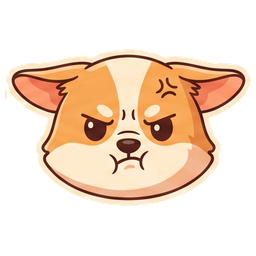
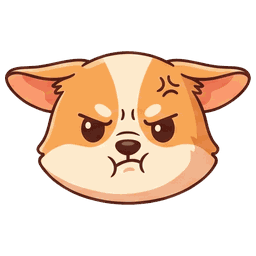
build(2.0.15): ten emoji packs, eight drawn for Jotla; the child's face loses its disc

Changed region(s): [[0.0, 0.1875, 1.0, 0.8125], [0.5312, 0.3125, 0.5625, 0.3438]]

diff --git a/tests/boot-assert.js b/tests/boot-assert.js
@@ -720,19 +720,33 @@ function ok(name, cond) {
   await page4.waitForTimeout(600);
   const moodPage = await page4.locator('#root').innerText();
   ok('the Emojis page drops the grey subtitle', !moodPage.includes('The faces the whole record wears'));
-  ok('the Emojis page lists exactly Bold, Sticker and Corgi (the v2 roster is gone)',
-    moodPage.includes('Bold') && moodPage.includes('Sticker') && moodPage.includes('Corgi')
+  ok('the Emojis page lists all ten packs (the v2 roster is still gone)',
+    ['Bold', 'Sticker', 'Corgi', 'Cat', 'Dino', 'Monster', 'Ghost', 'Robot', 'Weather', 'Boba'].every(k => moodPage.includes(k))
     && !moodPage.includes('Classic') && !moodPage.includes('Bubble') && !moodPage.includes('Outline') && !moodPage.includes('Soft'));
-  ok('all three packs preview their five moods (15 faces on the page)', (await page4.locator('[data-face-style]').count()) === 15);
+  ok('all ten packs preview their five moods (50 faces on the page)', (await page4.locator('[data-face-style]').count()) === 50);
   ok('Bold is the default look, ticked on a fresh boot', await page4.evaluate(() => {
     const btn = [...document.querySelectorAll('[role="radio"]')].find(b => b.getAttribute('aria-label') === 'Bold');
     return !!btn && btn.getAttribute('aria-checked') === 'true';
   }));
-  ok('both paid packs wear the crown on free', (await page4.locator('[data-crown-gate]').count()) === 2);
+  ok('all nine paid packs wear the crown on free', (await page4.locator('[data-crown-gate]').count()) === 9);
   // every face on the page is a file that actually decoded: a missing PNG
-  // renders as an empty img and still counts in the locator above
-  ok('every previewed face image loaded (no broken art)', await page4.evaluate(() =>
-    [...document.querySelectorAll('[data-face-style] img')].every(i => i.complete && i.naturalWidth > 0)));
+  // renders as an empty img and still counts in the locator above. The previews
+  // are lazy, so the page is scrolled to the end first, which also proves the
+  // lazy images do arrive: 50 files, 10 packs, no broken art anywhere.
+  await page4.evaluate(async () => {
+    const box = document.querySelector('.j-scroll');
+    for (let y = 0; y < box.scrollHeight; y += 400) {
+      box.scrollTop = y;
+      await new Promise(r => setTimeout(r, 60));
+    }
+  });
+  await page4.waitForTimeout(900);
+  const faceImgs = await page4.evaluate(() => {
+    const imgs = [...document.querySelectorAll('[data-face-style] img')];
+    return { total: imgs.length, ok: imgs.filter(i => i.complete && i.naturalWidth > 0).length };
+  });
+  ok(`every previewed face image loaded (${faceImgs.ok}/${faceImgs.total})`,
+    faceImgs.total === 50 && faceImgs.ok === 50);
   await page4.locator('[role="radio"][aria-label="Sticker"]').first().click();
   await page4.waitForTimeout(600);
   ok('a crowned pack opens the Jotla Plus page on free', (await page4.locator('#root').innerText()).includes('Get Jotla Plus'));
@@ -948,6 +962,17 @@ function ok(name, cond) {
   await page5.getByText('Happy', { exact: true }).first().click();
   await page5.waitForTimeout(500);
   ok('a picked face grows the More button on Plus', await page5.getByText('More', { exact: true }).first().isVisible());
+  // 11 Aug: the amber disc behind the child's face is gone. It was also padding
+  // the art down to 82%, so the disc is what made the sticker look small.
+  ok('no child face sits on a coloured disc', await page5.evaluate(() =>
+    [...document.querySelectorAll('[data-face-style]')].every(s => {
+      const bg = getComputedStyle(s).backgroundColor;
+      return bg === 'rgba(0, 0, 0, 0)' || bg === 'transparent';
+    })));
+  ok('the confirmed face renders full-bleed at 162px', await page5.evaluate(() => {
+    const img = document.querySelector('[data-face-style] img');
+    return !!img && Math.round(img.getBoundingClientRect().width) === 162;
+  }));
   await page5.getByText('More', { exact: true }).first().click();
   await page5.waitForTimeout(500);
   const qCards = await page5.locator('#root').innerText();

diff --git a/design-handoff/source/jotla/jotla-illustrations.jsx b/design-handoff/source/jotla/jotla-illustrations.jsx
@@ -22,15 +22,17 @@
 // theme-correct fallback without rendering it first. See NATIVE-SYNC.md B.
 
 // mood/emotion keys: happy, ok, sad, worried, angry  (good->happy, hard->sad aliases)
-// MOOD STYLES v4 (founder, 11 Aug): THREE packs. Bold (Twemoji, CC BY 4.0) is
-// the DEFAULT and free; Sticker (Microsoft Fluent 3D, MIT) and Corgi are Plus.
-// The 9 Aug v2 roster (Soft/Flat/Bubble/Outline and the cat packs) was cut the
-// same day: founder verdict, "all the same kinda"; the drawn classic smiley
-// retired with it. Corgi is the first ORIGINAL pack, drawn for Jotla rather
-// than licensed, because nothing open carries that variety: one 21:9 sheet of
-// all five moods off one character anchor, cut into five squares and sized by
-// area so a wide head and a tall-eared head read the same. Recipe + prompt:
-// Vision `App/Jotla-Emoji-Pack-Prompts.md`. Notices: moods/LICENSES.md + About.
+// EMOJI PACKS v5 (founder, 11 Aug): TEN packs. Bold (Twemoji, CC BY 4.0) is the
+// DEFAULT and free; every other pack is Plus. Eight of them are ORIGINAL, drawn
+// for Jotla rather than licensed, because nothing open carries that variety
+// (the 9 Aug roster was cut on the founder's verdict, "all the same kinda").
+// Each original pack is ONE 21:9 sheet holding all five moods, so one drawing
+// pass gives one character; the founder cuts the sheet in Photoshop and Vision
+// splits it, sizes each face by AREA (a wide short head and a tall eared head
+// with the same bounding box read as different sizes) and squares it to 256px,
+// palette-optimised to about a sixth of the raw weight. Recipe and the prompt
+// for every pack: Vision `App/Jotla-Emoji-Pack-Prompts.md`. Notices live in
+// moods/LICENSES.md and on the About page.
 // The active look rides window.JOTLA_FACE_STYLE (set by the shell from prefs);
 // the styleName prop overrides it so the Mood style page can preview packs.
 // Any unknown or stale pack name falls back to Bold so a face can never blank.
@@ -38,8 +40,15 @@ const FACE_PACKS = {
   bold: { dir: 'moods/bold', ext: 'png', label: 'Bold' },
   sticker: { dir: 'moods/sticker', ext: 'png', label: 'Sticker' },
   corgi: { dir: 'moods/corgi', ext: 'png', label: 'Corgi' },
+  cat: { dir: 'moods/cat', ext: 'png', label: 'Cat' },
+  dino: { dir: 'moods/dino', ext: 'png', label: 'Dino' },
+  monster: { dir: 'moods/monster', ext: 'png', label: 'Monster' },
+  ghost: { dir: 'moods/ghost', ext: 'png', label: 'Ghost' },
+  robot: { dir: 'moods/robot', ext: 'png', label: 'Robot' },
+  weather: { dir: 'moods/weather', ext: 'png', label: 'Weather' },
+  boba: { dir: 'moods/boba', ext: 'png', label: 'Boba' },
 };
-const FACE_PACK_ORDER = ['bold', 'sticker', 'corgi'];
+const FACE_PACK_ORDER = ['bold', 'sticker', 'corgi', 'cat', 'dino', 'monster', 'ghost', 'robot', 'weather', 'boba'];
 const FACE_PACK_DEFAULT = 'bold';
 const FACE_PACK_LABEL = (k) => (FACE_PACKS[k] ? FACE_PACKS[k].label : FACE_PACKS[FACE_PACK_DEFAULT].label);
 function Face({ mood = 'happy', size = 64, bg = 'transparent', styleName }) {
@@ -53,7 +62,7 @@ function Face({ mood = 'happy', size = 64, bg = 'transparent', styleName }) {
   return (
     <span data-face-style={look} style={{ display: 'flex', alignItems: 'center', justifyContent: 'center',
       width: size, height: size, borderRadius: '50%', background: bg !== 'transparent' ? bg : 'none', flexShrink: 0 }}>
-      <img src={p.dir + '/' + m + '.' + p.ext} alt="" draggable={false}
+      <img src={p.dir + '/' + m + '.' + p.ext} alt="" draggable={false} loading="lazy" decoding="async" 
         style={{ width: size - pad * 2, height: size - pad * 2, display: 'block' }} />
     </span>
   );

diff --git a/design-handoff/source/jotla/min/jotla-parent-b.js b/design-handoff/source/jotla/min/jotla-parent-b.js
@@ -2864,7 +2864,7 @@ function InfoAboutScreen({
     title: "Jotla Plus"
   }, /*#__PURE__*/React.createElement(InfoP, null, "The record itself is free, forever: logging, your timeline, search and export never cost anything, never expire, and stay yours."), /*#__PURE__*/React.createElement(InfoP, null, "Jotla Plus adds the tools to help you spot patterns and make your case: photos and videos kept with your notes, patterns and the Month view, deep filtering, Dysregulation Mode, and the PDF evidence pack. Family Sync, when it arrives, is part of Plus too. Plus is ", TERM_PRICE, " ", TERM_PERIOD, " or ", PLUS_PRICE, " for a year, through Google Play, and it stays on until the day a term runs out."), /*#__PURE__*/React.createElement(InfoP, null, /*#__PURE__*/React.createElement("span", {
     className: "j-strong"
-  }, "If your year ends, you keep everything."), " Your record is never held to ransom. If Plus ends, for any reason at all, whether you cancel, let it lapse, or a card quietly expires, you lose nothing you have written. Every entry stays. Your full timeline stays. Plain keyword search stays. Raw export stays. You can still make the PDF of everything you have already logged. Appeal-deadline safety reminders keep coming, with or without a subscription. A subscription only ever switches off the paid tools. It never touches your history."), /*#__PURE__*/React.createElement(InfoP, null, "Jotla AI is coming in 2027: ", AI_PRICE, " ", PLUS_PERIOD, ", with Jotla Plus included, so it is ", AI_PRICE, " in total and not one price on top of another."), /*#__PURE__*/React.createElement(InfoP, null, "Two of the face packs use open emoji artwork, with thanks to their makers: Bold is Twemoji (CC BY 4.0) and Sticker is Microsoft Fluent Emoji (MIT licence). Corgi was drawn for Jotla. Full notices ship inside the app's moods folder."), /*#__PURE__*/React.createElement("button", {
+  }, "If your year ends, you keep everything."), " Your record is never held to ransom. If Plus ends, for any reason at all, whether you cancel, let it lapse, or a card quietly expires, you lose nothing you have written. Every entry stays. Your full timeline stays. Plain keyword search stays. Raw export stays. You can still make the PDF of everything you have already logged. Appeal-deadline safety reminders keep coming, with or without a subscription. A subscription only ever switches off the paid tools. It never touches your history."), /*#__PURE__*/React.createElement(InfoP, null, "Jotla AI is coming in 2027: ", AI_PRICE, " ", PLUS_PERIOD, ", with Jotla Plus included, so it is ", AI_PRICE, " in total and not one price on top of another."), /*#__PURE__*/React.createElement(InfoP, null, "Two of the emoji packs use open artwork, with thanks to their makers: Bold is Twemoji (CC BY 4.0) and Sticker is Microsoft Fluent Emoji (MIT licence). The other eight were drawn for Jotla. Full notices ship inside the app's moods folder."), /*#__PURE__*/React.createElement("button", {
     className: "j-btn j-btn-soft",
     onClick: () => nav.go('unlock')
   }, /*#__PURE__*/React.createElement(Icon, {
@@ -3677,7 +3677,7 @@ function MoodStyleScreen({
       size: 40,
       styleName: k
     }))));
-  }), /*#__PURE__*/React.createElement(FootNote, null, "Bold is part of Free. The other looks are part of Plus, and the whole record changes together: Today, the Month, and the child's own screens."))));
+  }), /*#__PURE__*/React.createElement(FootNote, null, "Bold is part of Free. The other nine are part of Plus, and the whole record changes together: Today, the Month, and the child's own screens."))));
 }
 
 // ---------------- CHILDREN ----------------

diff --git a/design-handoff/source/jotla/min/jotla-illustrations.js b/design-handoff/source/jotla/min/jotla-illustrations.js
@@ -22,15 +22,17 @@
 // theme-correct fallback without rendering it first. See NATIVE-SYNC.md B.
 
 // mood/emotion keys: happy, ok, sad, worried, angry  (good->happy, hard->sad aliases)
-// MOOD STYLES v4 (founder, 11 Aug): THREE packs. Bold (Twemoji, CC BY 4.0) is
-// the DEFAULT and free; Sticker (Microsoft Fluent 3D, MIT) and Corgi are Plus.
-// The 9 Aug v2 roster (Soft/Flat/Bubble/Outline and the cat packs) was cut the
-// same day: founder verdict, "all the same kinda"; the drawn classic smiley
-// retired with it. Corgi is the first ORIGINAL pack, drawn for Jotla rather
-// than licensed, because nothing open carries that variety: one 21:9 sheet of
-// all five moods off one character anchor, cut into five squares and sized by
-// area so a wide head and a tall-eared head read the same. Recipe + prompt:
-// Vision `App/Jotla-Emoji-Pack-Prompts.md`. Notices: moods/LICENSES.md + About.
+// EMOJI PACKS v5 (founder, 11 Aug): TEN packs. Bold (Twemoji, CC BY 4.0) is the
+// DEFAULT and free; every other pack is Plus. Eight of them are ORIGINAL, drawn
+// for Jotla rather than licensed, because nothing open carries that variety
+// (the 9 Aug roster was cut on the founder's verdict, "all the same kinda").
+// Each original pack is ONE 21:9 sheet holding all five moods, so one drawing
+// pass gives one character; the founder cuts the sheet in Photoshop and Vision
+// splits it, sizes each face by AREA (a wide short head and a tall eared head
+// with the same bounding box read as different sizes) and squares it to 256px,
+// palette-optimised to about a sixth of the raw weight. Recipe and the prompt
+// for every pack: Vision `App/Jotla-Emoji-Pack-Prompts.md`. Notices live in
+// moods/LICENSES.md and on the About page.
 // The active look rides window.JOTLA_FACE_STYLE (set by the shell from prefs);
 // the styleName prop overrides it so the Mood style page can preview packs.
 // Any unknown or stale pack name falls back to Bold so a face can never blank.
@@ -49,9 +51,44 @@ const FACE_PACKS = {
     dir: 'moods/corgi',
     ext: 'png',
     label: 'Corgi'
+  },
+  cat: {
+    dir: 'moods/cat',
+    ext: 'png',
+    label: 'Cat'
+  },
+  dino: {
+    dir: 'moods/dino',
+    ext: 'png',
+    label: 'Dino'
+  },
+  monster: {
+    dir: 'moods/monster',
+    ext: 'png',
+    label: 'Monster'
+  },
+  ghost: {
+    dir: 'moods/ghost',
+    ext: 'png',
+    label: 'Ghost'
+  },
+  robot: {
+    dir: 'moods/robot',
+    ext: 'png',
+    label: 'Robot'
+  },
+  weather: {
+    dir: 'moods/weather',
+    ext: 'png',
+    label: 'Weather'
+  },
+  boba: {
+    dir: 'moods/boba',
+    ext: 'png',
+    label: 'Boba'
   }
 };
-const FACE_PACK_ORDER = ['bold', 'sticker', 'corgi'];
+const FACE_PACK_ORDER = ['bold', 'sticker', 'corgi', 'cat', 'dino', 'monster', 'ghost', 'robot', 'weather', 'boba'];
 const FACE_PACK_DEFAULT = 'bold';
 const FACE_PACK_LABEL = k => FACE_PACKS[k] ? FACE_PACKS[k].label : FACE_PACKS[FACE_PACK_DEFAULT].label;
 function Face({
@@ -83,6 +120,8 @@ function Face({
     src: p.dir + '/' + m + '.' + p.ext,
     alt: "",
     draggable: false,
+    loading: "lazy",
+    decoding: "async",
     style: {
       width: size - pad * 2,
       height: size - pad * 2,

diff --git a/design-handoff/source/jotla/jotla-child.jsx b/design-handoff/source/jotla/jotla-child.jsx
@@ -301,8 +301,13 @@ function ChildScreen({ nav, profile }) {
 
           {step === 'intro' && (
             <div className="j-fade" style={{ textAlign: 'center' }}>
+              {/* no amber disc behind the face (founder, 11 Aug: "dont let it
+                  have those round borders around them. it makes the sticker
+                  look smaller. just leave it natural"). The disc also padded
+                  the art to 82%, so dropping it is what makes the face bigger,
+                  not the size bump. */}
               <div style={{ display: 'flex', justifyContent: 'center', marginBottom: 22 }}>
-                <Face mood="happy" size={140} bg="#FFE6B8" />
+                <Face mood="happy" size={150} />
               </div>
               <p style={{ fontFamily: "'Cal Sans', system-ui", fontWeight: 500, fontSize: 'calc(36px * var(--tscale, 1))', color: HEAD_INK, margin: '0 0 8px' }}>Hi {childName}</p>
               <p style={{ fontSize: 'calc(20px * var(--tscale, 1))', color: SUB_INK, margin: '0 0 34px' }}>How was your day?</p>
@@ -349,7 +354,7 @@ function ChildScreen({ nav, profile }) {
               <div style={{ position: 'relative', display: 'flex', justifyContent: 'center', marginBottom: 24 }}>
                 {sel === 'happy' && <ConfettiBurst />}
                 <span className={'j-anim-' + sel} style={{ display: 'inline-flex' }}>
-                  <Face mood={sel} size={150} bg="#FFE6B8" />
+                  <Face mood={sel} size={162} />
                 </span>
               </div>
               <p style={{ fontFamily: "'Cal Sans', system-ui", fontWeight: 500, fontSize: 'calc(32px * var(--tscale, 1))', color: HEAD_INK, margin: '0 0 8px', lineHeight: 1.1 }}>
@@ -460,7 +465,7 @@ function ChildScreen({ nav, profile }) {
                 {/* gentle colour wash, no confetti, no sound */}
                 <span style={{ position: 'absolute', inset: '-30px', borderRadius: '50%',
                   background: 'radial-gradient(circle, rgba(39,174,96,0.16), rgba(39,174,96,0) 70%)' }} />
-                <span style={{ position: 'relative' }}><Face mood="happy" size={150} bg="#FFE6B8" /></span>
+                <span style={{ position: 'relative' }}><Face mood="happy" size={162} /></span>
                 {/* soft tick */}
                 <span style={{ position: 'absolute', right: 4, bottom: 4, width: 48, height: 48, borderRadius: '50%',
                   background: '#27AE60', display: 'flex', alignItems: 'center', justifyContent: 'center',

diff --git a/design-handoff/source/jotla/jotla-parent-b.jsx b/design-handoff/source/jotla/jotla-parent-b.jsx
@@ -1463,7 +1463,7 @@ function InfoAboutScreen({ nav }) {
         <InfoP>Jotla Plus adds the tools to help you spot patterns and make your case: photos and videos kept with your notes, patterns and the Month view, deep filtering, Dysregulation Mode, and the PDF evidence pack. Family Sync, when it arrives, is part of Plus too. Plus is {TERM_PRICE} {TERM_PERIOD} or {PLUS_PRICE} for a year, through Google Play, and it stays on until the day a term runs out.</InfoP>
         <InfoP><span className="j-strong">If your year ends, you keep everything.</span> Your record is never held to ransom. If Plus ends, for any reason at all, whether you cancel, let it lapse, or a card quietly expires, you lose nothing you have written. Every entry stays. Your full timeline stays. Plain keyword search stays. Raw export stays. You can still make the PDF of everything you have already logged. Appeal-deadline safety reminders keep coming, with or without a subscription. A subscription only ever switches off the paid tools. It never touches your history.</InfoP>
         <InfoP>Jotla AI is coming in 2027: {AI_PRICE} {PLUS_PERIOD}, with Jotla Plus included, so it is {AI_PRICE} in total and not one price on top of another.</InfoP>
-        <InfoP>Two of the face packs use open emoji artwork, with thanks to their makers: Bold is Twemoji (CC BY 4.0) and Sticker is Microsoft Fluent Emoji (MIT licence). Corgi was drawn for Jotla. Full notices ship inside the app's moods folder.</InfoP>
+        <InfoP>Two of the emoji packs use open artwork, with thanks to their makers: Bold is Twemoji (CC BY 4.0) and Sticker is Microsoft Fluent Emoji (MIT licence). The other eight were drawn for Jotla. Full notices ship inside the app's moods folder.</InfoP>
         <button className="j-btn j-btn-soft" onClick={() => nav.go('unlock')}>
           <Icon name="sparkle" size={18} color="var(--blue)" /> See what Plus adds
         </button>
@@ -1811,7 +1811,7 @@ function MoodStyleScreen({ nav }) {
               </button>
             );
           })}
-          <FootNote>Bold is part of Free. The other looks are part of Plus, and the whole record changes together: Today, the Month, and the child's own screens.</FootNote>
+          <FootNote>Bold is part of Free. The other nine are part of Plus, and the whole record changes together: Today, the Month, and the child's own screens.</FootNote>
         </div>
       </div>
     </div>

diff --git a/design-handoff/source/jotla/min/jotla-child.js b/design-handoff/source/jotla/min/jotla-child.js
@@ -563,8 +563,7 @@ function ChildScreen({
     }
   }, /*#__PURE__*/React.createElement(Face, {
     mood: "happy",
-    size: 140,
-    bg: "#FFE6B8"
+    size: 150
   })), /*#__PURE__*/React.createElement("p", {
     style: {
       fontFamily: "'Cal Sans', system-ui",
@@ -693,8 +692,7 @@ function ChildScreen({
     }
   }, /*#__PURE__*/React.createElement(Face, {
     mood: sel,
-    size: 150,
-    bg: "#FFE6B8"
+    size: 162
   }))), /*#__PURE__*/React.createElement("p", {
     style: {
       fontFamily: "'Cal Sans', system-ui",
@@ -942,8 +940,7 @@ function ChildScreen({
     }
   }, /*#__PURE__*/React.createElement(Face, {
     mood: "happy",
-    size: 150,
-    bg: "#FFE6B8"
+    size: 162
   })), /*#__PURE__*/React.createElement("span", {
     style: {
       position: 'absolute',

diff --git a/design-handoff/source/jotla/sw.js b/design-handoff/source/jotla/sw.js
@@ -10,9 +10,10 @@
    VERSION, and that is the ONLY thing that can evict a cache-first entry. A ?v=
    query cannot, because the fetch handler matches with ignoreSearch: true. The
    illo deck now hashes its filenames so it never needs this; anything else that
-   reuses a filename does. Bumped to 1.13.0 on 16 Jul to evict the 3:2 illustration
+   reuses a filename does: 2.0.15 replaced every moods/corgi/*.png with a cleaner
+   cut under the same five names, which is exactly the case this rule exists for. Bumped to 1.13.0 on 16 Jul to evict the 3:2 illustration
    set that v1.12.0 had cached under the square set's names. */
-const VERSION = 'jotla-v2.0.14';
+const VERSION = 'jotla-v2.0.15';
 const PRECACHE = [
   './',
   'index.html',

diff --git a/design-handoff/redesign-2026-08/README.md b/design-handoff/redesign-2026-08/README.md
@@ -2,7 +2,9 @@
 
 Direction set by the founder on 2026-08-06 after reviewing Todoist's dark Android app (his reference screenshots live in Vision, `Gemini Gems/Demo`). The board that carries every decision below is [`lookdev-002.html`](lookdev-002.html): open it in a browser, dark pair on top, light pair below, Menu icon options and the D/G/E nav comparison above the frames.
 
-**Status: dark theme LOCKED. Light theme first pass. THE WEB BUILD SHIPPED 7 Aug 2026 and iterated to 2.0.14** (sw v2.0.14, boot-assert 289/289 green with proven negative controls, live at https://okbupe.github.io/jotla/). `art/plus-6.jpg` (the Mood Styles slide) LANDED the same night: Bupe generated it on Higgsfield (nano_banana_2, 2K, 16:9, generation ed3556f1) from the handed-over prompt; pixels verified against the brief (cat, classic, bear badges, tint disc, single shadow, sparkle + veined leaf, no text) and resized to the set's 720x402 jpg class. The native mirror is the outstanding half of the two-track rule (its Plus ladder already matches by coincidence of history: £49 / £79, no monthly; the tile-sub recolour is mirrored natively; the nav animations and the 2.0.7 speed dial are not yet, and 2.0.7 retires the native Today-tiles pattern conceptually too).
+**Status: dark theme LOCKED. Light theme first pass. THE WEB BUILD SHIPPED 7 Aug 2026 and iterated to 2.0.15** (sw v2.0.15, boot-assert 291/291 green with proven negative controls, live at https://okbupe.github.io/jotla/). `art/plus-6.jpg` (the Mood Styles slide) LANDED the same night: Bupe generated it on Higgsfield (nano_banana_2, 2K, 16:9, generation ed3556f1) from the handed-over prompt; pixels verified against the brief (cat, classic, bear badges, tint disc, single shadow, sparkle + veined leaf, no text) and resized to the set's 720x402 jpg class. The native mirror is the outstanding half of the two-track rule (its Plus ladder already matches by coincidence of history: £49 / £79, no monthly; the tile-sub recolour is mirrored natively; the nav animations and the 2.0.7 speed dial are not yet, and 2.0.7 retires the native Today-tiles pattern conceptually too).
+
+**2.0.15, ten emoji packs, eight of them ours, and the child's face comes off its disc (Bupe, 11 Aug).** Seven more kawaii sheets generated (Cat, Dino, Robot, Monster, Ghost, Weather where the mood IS the weather, Boba), each one 21:9 pass holding all five moods. **The die-cut border was my error**, carried over from the corgi prompt into all seven, and Bupe called it: a sticker edge fights a clean cutout. Three automatic strategies were tried and all failed honestly (colour erosion runs away on a pale body; a depth cap leaves a shadow crescent; an ink-fill mask drops the sun, the rain and the bolt, which have coloured outlines instead of dark ones). **Bupe cut all eight sheets in Photoshop instead**, so the pipeline now takes an alpha channel as given and does nothing but split, area-size and square: `cut_alpha.py`. Files are palette-optimised to 15% of the raw cut (2560 KB to 391 KB across 40 files) and previews are `loading="lazy"`, because the Emojis page now holds 50 of them. Suite 291/291: ten packs, 50 previews, 9 crowns on free, and the decode assert scrolls the whole page first (negative-controlled by hiding `cat/sad.png`: 49/50, one clean failure). **Child's Day: the amber disc behind the face is gone** (founder: "it makes the sticker look smaller. just leave it natural"), which is doubly true because the disc padded the art to 82%; the confirmed face now renders full-bleed at 162px and both facts are asserted. sw bumped, which matters here: `moods/corgi/*.png` was replaced under the same five names and those are cache-first.
 
 **2.0.14, Corgi: the first pack Jotla owns (Bupe, 11 Aug).** The 9 Aug research ended with a finding, not a pack: the variety the founder asked for (characters, not five versions of the same round face) does not exist under an open licence, so original packs get generated. Five separate prompts made five different dogs on 9 Aug (head, ears and muzzle all moved between renders), so the method changed on his call: **one character anchor, one 21:9 sheet holding all five moods, cut locally**. One pass means one drawing style, guaranteed. Vision cut the sheet by flooding the background in from the border (not a global white key, so the white blaze and eye highlights survive), splitting the three stickers whose die-cut borders touched at their narrowest bridge column, then **sizing each face by area rather than by bounding box**, because a wide short head and a tall-eared head with the same box read as different sizes. Five 256px RGBA files, `moods/corgi/`, Plus-gated beside Sticker; the Emojis page is driven by `FACE_PACK_ORDER` so it grew a third card with no layout change. About credits and `moods/LICENSES.md` now say two packs are licensed and Corgi is ours. Suite 289/289: the new asserts count 15 preview faces and 2 crowns, and (the one that matters) prove every face **decoded**, since a missing PNG renders as blank space and still counts as present. Negative-controlled by hiding `corgi/happy.png`: exactly the two decode asserts failed, the presence assert stayed green. Also hardened here: the double-tap gesture test retries once, after it missed the app's 320ms window on a busy machine and failed a run that then passed unchanged. Known and accepted: the sheet's anchor was the sad corgi, so the sad, worried and angry faces carry its floppy ears while happy and calm keep upright ones. Re-roll from the calm anchor is a straight file swap.
 

diff --git a/design-handoff/source/jotla/moods/LICENSES.md b/design-handoff/source/jotla/moods/LICENSES.md
@@ -1,17 +1,17 @@
 # Emoji pack artwork licences
 
-Two packs bundle unmodified emoji artwork from openly licensed sets (resized only). The third is ours. Current roster (v4, 2026-08-11: Bold is the free default, Sticker and Corgi are the Plus looks):
+Two packs bundle emoji artwork from openly licensed sets (resized, and palette-optimised for weight). The other eight are ours. Current roster (v5, 2026-08-11: Bold is the free default, the other nine are Plus looks):
 
 | Pack folder | Set | Source | Licence |
 |---|---|---|---|
 | `bold/` | Twemoji | github.com/jdecked/twemoji | Graphics CC BY 4.0 (copyright Twitter, Inc and other contributors) |
 | `sticker/` | Microsoft Fluent Emoji (3D) | github.com/microsoft/fluentui-emoji | MIT |
-| `corgi/` | Original artwork, drawn for Jotla | generated in-house 2026-08-11 (Higgsfield, nano_banana_2), cut and sized by Vision | SEN Help Network Ltd, no third-party licence, no attribution required |
+| `corgi/` `cat/` `dino/` `monster/` `ghost/` `robot/` `weather/` `boba/` | Original artwork, drawn for Jotla | generated in-house 2026-08-11 (Higgsfield, nano_banana_2, one 21:9 sheet per pack), cut by the founder, split and sized by Vision | SEN Help Network Ltd, no third-party licence, no attribution required |
 
 Files per pack: `happy`, `ok`, `sad`, `worried`, `angry`, mapped to the app's five moods (U+1F60A, U+1F610, U+1F641, U+1F61F, U+1F620).
 
 User-facing attribution lives on the About Jotla page. Downloaded and verified 2026-08-09 (all HTTP 200, none empty).
 
-The Corgi pack is the answer to what the 9 Aug research found: the variety the founder wanted (character packs, not five versions of the same round face) does not exist under an open licence, so original packs are generated instead. One character anchor, one 21:9 sheet holding all five moods, cut into five squares locally and sized by area. Method and prompt: Vision `SEN Help Resources/App/Jotla-Emoji-Pack-Prompts.md`.
+The eight original packs are the answer to what the 9 Aug research found: the variety the founder wanted (character packs, not five versions of the same round face) does not exist under an open licence, so original packs are generated instead. One 21:9 sheet per pack holding all five moods, so one drawing pass gives one character; the founder cuts the die-cut border off in Photoshop, Vision splits, sizes by area and squares to 256px. Method and every prompt: Vision `SEN Help Resources/App/Jotla-Emoji-Pack-Prompts.md`.
 
 History: the 9 Aug v2 roster also bundled Fluent Color/Flat, Google Noto (Apache 2.0), OpenMoji (CC BY-SA 4.0) and two cat packs; all were removed the same day on the founder's call ("all the same kinda") before any release, and their files left the repo with them. Genuinely varied character packs are being selected separately.
